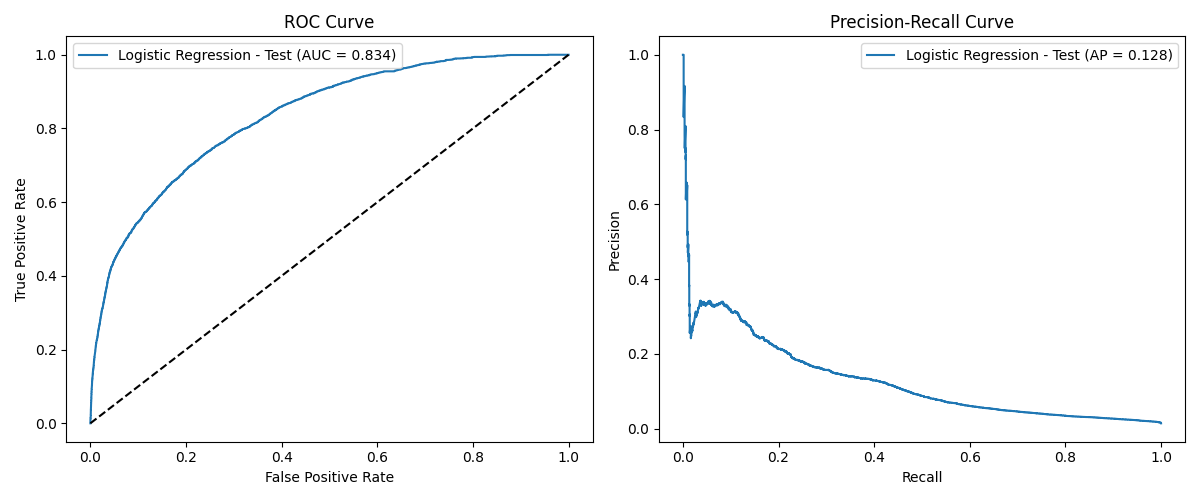
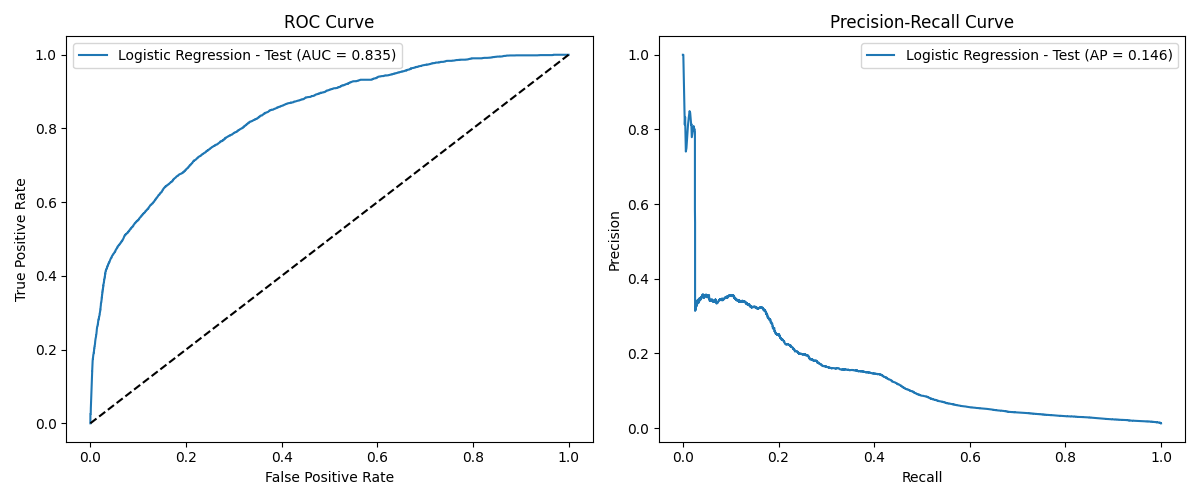
update preprocessing pipeline and model saving

diff --git a/src/module_3/preprocessing.py b/src/module_3/preprocessing.py
@@ -1,8 +1,8 @@
 import logging
 import pandas as pd
 from pathlib import Path
-from sklearn.preprocessing import StandardScaler
-from sklearn.model_selection import train_test_split
+from sklearn.pipeline import make_pipeline
+from sklearn.preprocessing import FunctionTransformer, StandardScaler
 
 logging.basicConfig(
     level=logging.INFO,
@@ -32,50 +32,65 @@ def filter_orders(df: pd.DataFrame, min_items: int = 5) -> pd.DataFrame:
     logging.info(f"Filtered data to {filtered_df.shape[0]} rows across {filtered_df['order_id'].nunique()} orders")
     return filtered_df
 
-
-def prepare_features(df: pd.DataFrame):
+def temporal_split_by_order(
+    df, 
+    date_col, 
+    order_col="order_id", 
+    feature_cols=None,
+    target_col="outcome", 
+    train_size=0.7, 
+    val_size=0.2, 
+    test_size=0.1
+):
     """
-    Prepare features and target, encode categorical variables, split the dataset, and scale features.
-
-    Args:
-        df (pd.DataFrame): Filtered DataFrame.
-
-    Returns:
-        tuple: Scaled train, validation, test sets and targets.
+    Splits a DataFrame into train, validation, and test sets based on order date,
+    ensuring no items from the same order appear in multiple splits.
     """
-    X = df[[
-        "product_type",
-        "ordered_before",
-        "abandoned_before",
-        "active_snoozed",
-        "set_as_regular",
-        "global_popularity"
-    ]]
-    y = df["outcome"]
+    if not abs(train_size + val_size + test_size - 1.0) < 1e-6:
+        raise ValueError("train_size + val_size + test_size must equal 1.0")
 
-    # Frequency encode 'product_type'
-    X_encoded = X.copy()
-    freq_map = X_encoded['product_type'].value_counts(normalize=True)
-    X_encoded['product_type'] = X_encoded['product_type'].map(freq_map)
-
-    # Split into train (70%), validation (20%), test (10%)
-    X_train, X_val, y_train, y_val = train_test_split(
-        X_encoded, y, test_size=0.3, random_state=42
-    )
-    X_val, X_test, y_val, y_test = train_test_split(
-        X_val, y_val, test_size=0.3333, random_state=42
+    # Order unique orders by date
+    orders_sorted = (
+        df[[order_col, date_col]]
+        .drop_duplicates()
+        .sort_values(date_col)
     )
 
-    logging.info(f"Training set size: {X_train.shape[0]} rows")
-    logging.info(f"Validation set size: {X_val.shape[0]} rows")
-    logging.info(f"Test set size: {X_test.shape[0]} rows")
+    n_orders = len(orders_sorted)
+    train_end = int(train_size * n_orders)
+    val_end = int((train_size + val_size) * n_orders)
 
-    scaler = StandardScaler()
-    X_train_scaled = scaler.fit_transform(X_train)
-    X_val_scaled = scaler.transform(X_val)
-    X_test_scaled = scaler.transform(X_test)
+    # Assign orders to splits
+    train_orders = orders_sorted.iloc[:train_end][order_col]
+    val_orders = orders_sorted.iloc[train_end:val_end][order_col]
+    test_orders = orders_sorted.iloc[val_end:][order_col]
 
-    return X_train_scaled, X_val_scaled, X_test_scaled, y_train, y_val, y_test
+    # Filter DataFrame based on order assignments
+    train_df = df[df[order_col].isin(train_orders)]
+    val_df = df[df[order_col].isin(val_orders)]
+    test_df = df[df[order_col].isin(test_orders)]
+
+    # If feature_cols is specified, select only those columns along with target_col
+    if feature_cols is not None:
+        train_df = train_df[feature_cols + [target_col]]
+        val_df = val_df[feature_cols + [target_col]]
+        test_df = test_df[feature_cols + [target_col]]
+
+    # Divide into X and y
+    X_train = train_df.drop(columns=[target_col])
+    y_train = train_df[target_col]
+    X_val = val_df.drop(columns=[target_col])
+    y_val = val_df[target_col]
+    X_test = test_df.drop(columns=[target_col])
+    y_test = test_df[target_col]
+
+    logging.info(f"Total unique orders: {n_orders}")
+    logging.info(f"Train orders: {len(train_orders)} ({train_size*100:.1f}%)")
+    logging.info(f"Val orders: {len(val_orders)} ({val_size*100:.1f}%)")
+    logging.info(f"Test orders: {len(test_orders)} ({test_size*100:.1f}%)")
+    logging.info(f"Train rows: {train_df.shape[0]}, Val rows: {val_df.shape[0]}, Test rows: {test_df.shape[0]}")
+
+    return X_train, X_val, X_test, y_train, y_val, y_test
 
 
 if __name__ == "__main__":
@@ -90,9 +105,41 @@ if __name__ == "__main__":
     logging.info(f"Loading data from {FILE_PATH}")
     df = pd.read_csv(FILE_PATH)
 
-    df_filtered = filter_orders(df)
+    df_filtered = filter_orders(df, min_items=5)
 
-    X_train_scaled, X_val_scaled, X_test_scaled, y_train, y_val, y_test = prepare_features(df_filtered)
+    feature_cols = ["product_type", "ordered_before", "abandoned_before", "active_snoozed", "set_as_regular", "global_popularity"]
+    X_train, X_val, X_test, y_train, y_val, y_test = temporal_split_by_order(
+        df_filtered,
+        date_col="order_date",
+        order_col="order_id",
+        feature_cols=feature_cols,
+        target_col="outcome"
+    )
+
+    pipeline = make_pipeline(
+        FunctionTransformer(
+            lambda X: X.assign(
+                product_type=X['product_type'].map(X['product_type'].value_counts(normalize=True))
+            )
+        ),
+        StandardScaler()
+    )
+
+    X_train_scaled = pd.DataFrame(
+        pipeline.fit_transform(X_train),
+        columns=feature_cols,
+        index=X_train.index
+    )
+    X_val_scaled = pd.DataFrame(
+        pipeline.transform(X_val),
+        columns=feature_cols,
+        index=X_val.index
+    )
+    X_test_scaled = pd.DataFrame(
+        pipeline.transform(X_test),
+        columns=feature_cols,
+        index=X_test.index
+    )
 
     datasets = {
         "X_train_scaled": X_train_scaled,
@@ -108,4 +155,3 @@ if __name__ == "__main__":
         logging.info(f"Saved {name} to {save_path}")
 
     logging.info("Preprocessed and scaled datasets successfully saved.")
-

diff --git a/src/module_3/train_model.py b/src/module_3/train_model.py
@@ -3,6 +3,7 @@ import logging
 import pandas as pd
 import seaborn as sns
 from pathlib import Path
+from datetime import datetime
 import matplotlib.pyplot as plt
 from sklearn.linear_model import LogisticRegression
 from sklearn.metrics import confusion_matrix
@@ -138,9 +139,15 @@ if __name__ == "__main__":
         df_train_scaled, y_train, df_val_scaled, y_val
     )
     # Save the best model
-    with open(MODEL_PATH, "wb") as f:
+    models_dir = Path(__file__).resolve().parent / "models"
+    models_dir.mkdir(parents=True, exist_ok=True)
+
+    timestamp = datetime.now().strftime("%Y%m%d_%H%M%S")
+    model_file = models_dir / f"best_logistic_regression_model_{timestamp}.pkl"
+
+    with open(model_file, "wb") as f:
         pickle.dump(best_model, f)
-    logging.info(f"Best Logistic Regression model saved to {MODEL_PATH}")
+    logging.info(f"Best Logistic Regression model saved to {model_file}")
 
     fig, ax = plot_roc_pr(y_val, y_val_pred, model_name="Logistic Regression", save_path= Path(__file__).resolve().parent / "logreg_curves.png")
     plt.show()
@@ -148,7 +155,7 @@ if __name__ == "__main__":
     fig, ax = plot_confusion_matrix(y_val, y_val_pred, threshold=0.5, model_name="Logistic Regression", save_path= Path(__file__).resolve().parent / "logreg_confusion_matrix.png")
     plt.show()
 
-    
+
     # Evaluate on Test Set
     y_test_pred = best_model.predict_proba(df_test_scaled)[:, 1]
 
